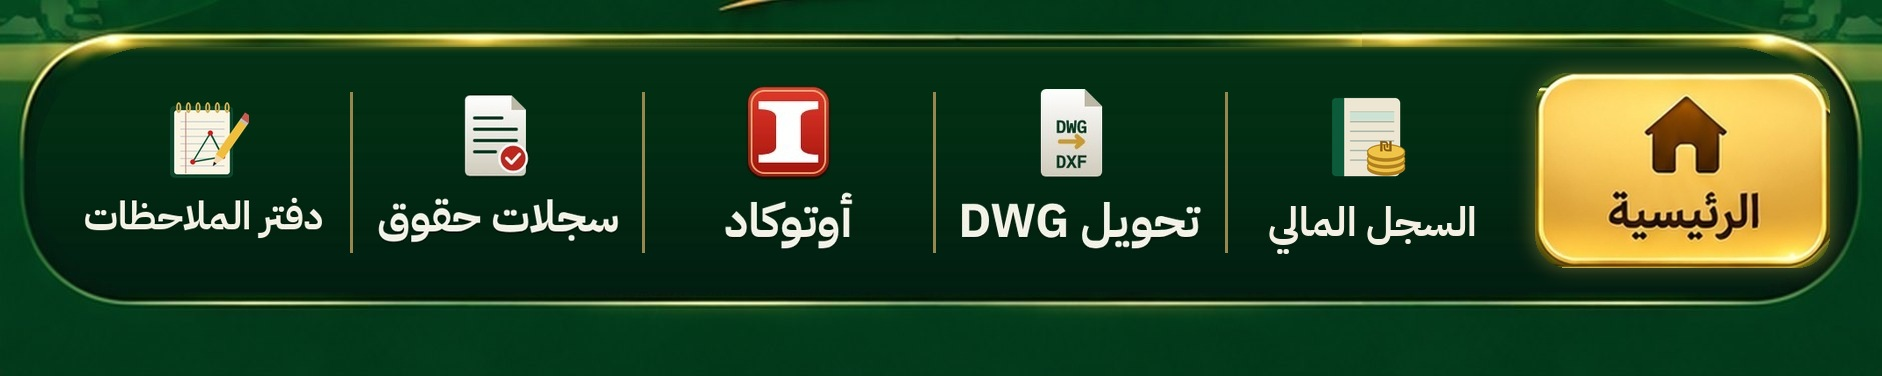
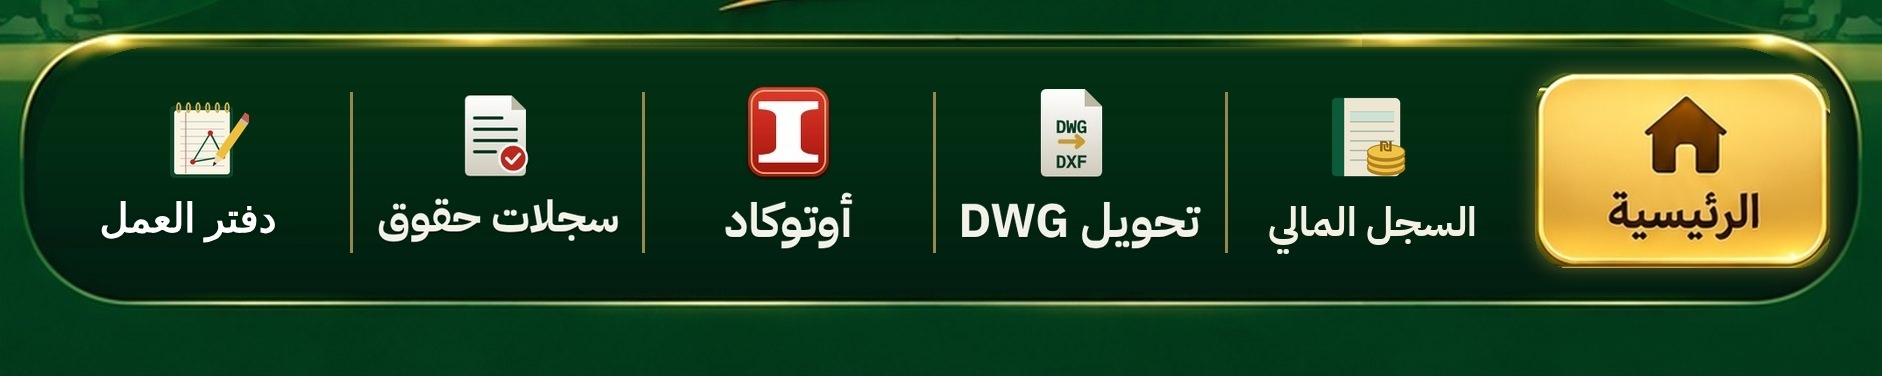
دفتر العمل: full names, amount linked to ledger, 4-stage status with auto payment on delivery
Claude-Session: https://claude.ai/code/session_01AkLSPwRHM58vdM6rzVeHiX

Changed region(s): [[0.0308, 0.5266, 0.1849, 0.6436]]

diff --git a/app/src/main/assets/notes/index.html b/app/src/main/assets/notes/index.html
@@ -3,7 +3,7 @@
 <head>
 <meta charset="utf-8">
 <meta name="viewport" content="width=device-width,initial-scale=1,viewport-fit=cover">
-<title>دفتر الملاحظات</title>
+<title>دفتر العمل</title>
 <link rel="stylesheet" href="../ifraz/fonts.css">
 <link rel="stylesheet" href="../theme.css">
 <style>
@@ -37,10 +37,22 @@ button{font-family:inherit;cursor:pointer}
 .r:last-child{border-bottom:0}
 .r .ck{flex:none;width:32px;height:32px;border-radius:50%;border:2px solid #b9c4bb;background:#fff;font-size:16px;color:#fff;display:grid;place-items:center}
 .r.done .ck{background:#2f8a4f;border-color:#2f8a4f}
-.r .nm{flex:1.45;min-width:0;font:700 15.5px "IBM Plex Sans Arabic";white-space:nowrap;overflow:hidden;text-overflow:ellipsis}
-.r .wk{flex:1.05;min-width:0;font-size:14px;color:#4a5a50;white-space:nowrap;overflow:hidden;text-overflow:ellipsis}
-.r.done .nm,.r.done .wk{text-decoration:line-through;color:#9aa49c}
-.r .fee{flex:none;width:70px;font:700 14.5px "IBM Plex Sans Arabic";padding:6px;border:1.5px solid var(--am-line);border-radius:10px;background:#fff;text-align:center;direction:ltr}
+.r{flex-direction:column;align-items:stretch!important}
+.r .top{display:flex;align-items:flex-start;gap:6px}
+.r .who{flex:1;min-width:0}
+.r .nm{display:block;font:700 16px/1.45 "IBM Plex Sans Arabic";white-space:normal;word-break:break-word}
+.r .wk{display:block;font-size:14px;color:#4a5a50;white-space:normal}
+.r .lgm{display:block;font-size:12.5px;font-weight:700;margin-top:2px}.lgm.bad{color:#b4232c}.lgm.ok{color:#1e6b4a}
+.st{display:grid;grid-template-columns:repeat(4,minmax(0,1fr));gap:5px;margin-top:8px}
+.st button{border:1.5px solid var(--am-line);background:#fffdf6;border-radius:10px;padding:6px 2px;font:700 12.5px/1.3 "IBM Plex Sans Arabic";color:#6b7368}
+.st button.on[data-s=new]{background:#56677a;border-color:#56677a;color:#fff}
+.st button.on[data-s=doing]{background:#c98a12;border-color:#c98a12;color:#fff}
+.st button.on[data-s=done]{background:#1e6b4a;border-color:#1e6b4a;color:#fff}
+.st button.on[data-s=paid]{background:#0d6f78;border-color:#0d6f78;color:#fff}
+.r .fwrap{flex:none;display:flex;flex-direction:column;align-items:center;gap:2px}
+.r .fwrap small{font-size:10.5px;color:var(--am-muted)}
+.r.s-paid .nm,.r.s-paid .wk{color:#7d8a80}
+.r .fee{flex:none;width:86px;font:700 14.5px "IBM Plex Sans Arabic";padding:6px;border:1.5px solid var(--am-line);border-radius:10px;background:#fff;text-align:center;direction:ltr}
 .r .ib{flex:none;width:36px;height:36px;border:0;border-radius:10px;background:#f3ead2;font-size:16px;display:grid;place-items:center}
 .r .day{display:block;font-size:11.5px;color:#8a5a00;font-weight:600}
 .r .day.late{color:#b4232c}
@@ -116,13 +128,14 @@ button{font-family:inherit;cursor:pointer}
 </style>
 </head>
 <body>
-<div class="am-bar"><span class="am-title"><img src="../img/t-notes.png" alt=""><b>دفتر الملاحظات</b></span><a class="am-home" href="../home.html"><svg viewBox="0 0 24 24" fill="currentColor" aria-hidden="true"><path d="M12 3 2.5 11h2.7v9.5h5.3v-6h3v6h5.3V11h2.7z"/></svg>الرئيسية</a></div>
+<div class="am-bar"><span class="am-title"><img src="../img/t-notes.png" alt=""><b>دفتر العمل</b></span><a class="am-home" href="../home.html"><svg viewBox="0 0 24 24" fill="currentColor" aria-hidden="true"><path d="M12 3 2.5 11h2.7v9.5h5.3v-6h3v6h5.3V11h2.7z"/></svg>الرئيسية</a></div>
 <div class="am-spacer" aria-hidden="true"></div>
 <main>
   <section id="vWork">
     <div class="quick">
       <div class="qrow"><input id="qName" placeholder="اسم صاحب العمل"><button class="mic" type="button" data-mic="qName">🎤</button></div>
-      <div class="qrow"><input id="qWork" placeholder="نوع العمل"><button class="mic" type="button" data-mic="qWork">🎤</button><button class="plus" type="button" id="qAdd">＋ أضف</button></div>
+      <div class="qrow"><input id="qWork" placeholder="نوع العمل (ترخيص، إخراج قيد، تفصيلي…)"><button class="mic" type="button" data-mic="qWork">🎤</button></div>
+      <div class="qrow"><input id="qFee" inputmode="decimal" dir="ltr" placeholder="المبلغ المطلوب ₪" style="text-align:left"><button class="mic" type="button" data-mic="qFee">🎤</button><button class="plus" type="button" id="qAdd">＋ أضف</button></div>
     </div>
     <div class="sub" id="wSub"><button type="button" data-w="cur" class="on">الأعمال الحالية</button><button type="button" data-w="arch">🗄 الأرشيف</button></div>
     <div class="rows" id="wRows"></div>
@@ -158,7 +171,8 @@ const esc = s => String(s == null ? "" : s).replace(/[&<>"]/g, c => ({ "&": "&am
 const toast = t => { const e = $("#toast"); e.textContent = t; e.classList.add("on"); clearTimeout(toast.t); toast.t = setTimeout(() => e.classList.remove("on"), 1800); };
 const KEY = "jobs-v1";
 let jobs = []; try { jobs = JSON.parse(localStorage.getItem(KEY) || "[]") || []; } catch (e) {}
-jobs.forEach(j => { if (j.done == null) j.done = j.s === "done"; });   // من النسخة السابقة
+jobs.forEach(j => { if (j.done == null) j.done = j.s === "done"; if (!["new", "doing", "done", "paid"].includes(j.s)) j.s = j.done ? "done" : "new"; });   // من النسخة السابقة
+const STS = [["new", "جديد"], ["doing", "قيد العمل"], ["done", "انتهى العمل"], ["paid", "سُلّم واستُلم المبلغ"]], SORD = { doing: 0, new: 1, done: 2, paid: 3 };
 const save = () => { try { localStorage.setItem(KEY, JSON.stringify(jobs)); } catch (e) {} };
 const pad = n => String(n).padStart(2, "0");
 const ymd = d => d.getFullYear() + "-" + pad(d.getMonth() + 1) + "-" + pad(d.getDate());
@@ -183,31 +197,67 @@ function render() { renderWork(); const n = jobs.filter(j => j.arch && !j.finOnl
 function renderWork() {
   const arch = wSub === "arch";
   let list = jobs.filter(j => !j.finOnly && !!j.arch === arch);
-  list.sort((a, b) => (a.done ? 1 : 0) - (b.done ? 1 : 0) || ((a.date || "9999") + (a.time || "")).localeCompare((b.date || "9999") + (b.time || "")) || a.t - b.t);
-  if (!list.length) { $("#wRows").innerHTML = `<div class="empty">${arch ? "الأرشيف فارغ." : "لا أعمال بعد. اكتب الاسم ونوع العمل فوق (أو بصوتك) واضغط «أضف»."}</div>`; return; }
+  list.sort((a, b) => SORD[a.s] - SORD[b.s] || ((a.date || "9999") + (a.time || "")).localeCompare((b.date || "9999") + (b.time || "")) || a.t - b.t);
+  if (!list.length) { $("#wRows").innerHTML = `<div class="empty">${arch ? "الأرشيف فارغ." : "لا أعمال بعد. اكتب الاسم ونوع العمل والمبلغ فوق (أو بصوتك) واضغط «أضف»."}</div>`; return; }
   const today = ymd(new Date());
-  $("#wRows").innerHTML = `<div class="hrow"><span style="width:32px"></span><span style="flex:1.45">الاسم</span><span style="flex:1.05">نوع العمل</span><span style="width:70px;text-align:center">المطلوب</span><span style="width:78px"></span></div>` + list.map(j => {
-    const d = j.date ? `<span class="day${j.date < today && !j.done ? " late" : ""}">🗓 ${esc(dayName(j.date))}${j.time ? " " + esc(j.time) : ""}</span>` : "";
-    return `<div class="r${j.done ? " done" : ""}" data-id="${j.id}">
-      <button class="ck" type="button" data-done title="${j.done ? "إلغاء الشطب" : "انتهى العمل"}">${j.done ? "✓" : ""}</button>
-      <span class="nm">${esc(j.name || "—")}${d}</span><span class="wk">${esc(j.work || "")}</span>
-      <input class="fee" inputmode="decimal" value="${esc(j.fee || "")}" placeholder="${sym(j)}" data-fee>
-      <button class="ib" type="button" data-note title="ملاحظات">📝</button>
-      <button class="ib" type="button" data-arch title="${arch ? "إرجاع من الأرشيف" : "أرشفة"}">${arch ? "↩" : "🗄"}</button></div>`;
+  $("#wRows").innerHTML = list.map(j => {
+    const d = j.date ? `<span class="day${j.date < today && SORD[j.s] < 2 ? " late" : ""}">🗓 ${esc(dayName(j.date))}${j.time ? " " + esc(j.time) : ""}</span>` : "";
+    const r = lgOfJob(j); let lm = "";
+    if (r && N(r.due)) { const rem = N(r.due) - N(r.paid); lm = rem > 0 ? `<span class="lgm bad">💰 واصل ${M(N(r.paid))} · متبقي ${M(rem)} ₪</span>` : `<span class="lgm ok">💰 مدفوع كاملاً ✓</span>`; }
+    return `<div class="r s-${j.s}" data-id="${j.id}">
+      <div class="top"><div class="who"><span class="nm">${esc(j.name || "—")}</span>${j.work ? `<span class="wk">${esc(j.work)}</span>` : ""}${d}${lm}</div>
+      <div class="fwrap"><input class="fee" inputmode="decimal" value="${esc(j.fee || "")}" placeholder="المبلغ ₪" data-fee><small>المطلوب</small></div>
+      <button class="ib" type="button" data-note title="التفاصيل والملاحظات">📝</button>
+      <button class="ib" type="button" data-arch title="${arch ? "إرجاع من الأرشيف" : "أرشفة"}">${arch ? "↩" : "🗄"}</button></div>
+      <div class="st">${STS.map(([k, t]) => `<button type="button" data-s="${k}" class="${j.s === k ? "on" : ""}">${t}</button>`).join("")}</div></div>`;
   }).join("");
 }
 $("#qAdd").addEventListener("click", () => {
   const name = $("#qName").value.trim(), work = $("#qWork").value.trim(); if (!name && !work) { toast("اكتب الاسم أو نوع العمل"); return; }
-  jobs.push({ id: newId(), t: Date.now(), name, work, done: false, cur: "ils" }); save();
-  $("#qName").value = ""; $("#qWork").value = ""; if (wSub !== "cur") $('#wSub [data-w="cur"]').click(); else render(); toast("أُضيف");
+  const fee = $("#qFee").value.trim(), j = { id: newId(), t: Date.now(), name, work, fee, s: "new", done: false, cur: "ils" }; jobs.push(j); save();
+  if (N(fee)) syncLedger(j).then(ok => { render(); if (ok) toast("أُضيف، والمبلغ رحل للسجل المالي"); });
+  $("#qName").value = ""; $("#qWork").value = ""; $("#qFee").value = ""; if (wSub !== "cur") $('#wSub [data-w="cur"]').click(); else render(); toast("أُضيف");
 });
 $("#wRows").addEventListener("click", e => {
   const r = e.target.closest("[data-id]"); if (!r) return; const j = jobs.find(x => x.id === r.dataset.id);
-  if (e.target.closest("[data-done]")) { j.done = !j.done; j.doneAt = j.done ? Date.now() : null; save(); render(); toast(j.done ? "✓ انتهى العمل" : "أُعيد للأعمال"); }
+  const sb = e.target.closest("[data-s]"); if (sb) { setStatus(j, sb.dataset.s); return; }
   else if (e.target.closest("[data-arch]")) { j.arch = !j.arch; save(); render(); toast(j.arch ? "🗄 نُقل إلى الأرشيف" : "↩ أُرجع من الأرشيف"); }
   else if (e.target.closest("[data-note]")) openNote(j);
 });
-$("#wRows").addEventListener("change", e => { const f = e.target.closest("[data-fee]"); if (!f) return; const j = jobs.find(x => x.id === f.closest("[data-id]").dataset.id); j.fee = f.value.trim(); save(); });
+$("#wRows").addEventListener("change", e => { const f = e.target.closest("[data-fee]"); if (!f) return; const j = jobs.find(x => x.id === f.closest("[data-id]").dataset.id); j.fee = f.value.trim(); save();
+  syncLedger(j).then(ok => { render(); if (ok) toast("💰 المبلغ رحل للسجل المالي"); }); });
+
+/* ---------- الربط مع السجل المالي (سجل إسلام) ---------- */
+const LG = { db: null, recs: [] };
+const nn = x => String(x || "").replace(/\s+/g, " ").trim();
+function lgLoad() { return new Promise(res => { try { const r = indexedDB.open("segl-aslam", 1);
+  r.onupgradeneeded = () => { const d = r.result; d.createObjectStore("customers", { keyPath: "id" }); d.createObjectStore("notes", { keyPath: "id" }); };
+  r.onsuccess = () => { LG.db = r.result; const q = LG.db.transaction("customers", "readonly").objectStore("customers").getAll(); q.onsuccess = () => { LG.recs = q.result || []; res(); }; q.onerror = () => res(); };
+  r.onerror = () => res(); } catch (e) { res(); } }); }
+function lgPut(rec) { return new Promise(res => { if (!LG.db) return res(false); try { const tx = LG.db.transaction("customers", "readwrite"); tx.objectStore("customers").put(rec);
+  tx.oncomplete = () => { const i = LG.recs.findIndex(x => x.id === rec.id); if (i >= 0) LG.recs[i] = rec; else LG.recs.push(rec); res(true); }; tx.onerror = () => res(false); } catch (e) { res(false); } }); }
+const lgOfJob = j => LG.recs.find(r => r.jobId === j.id) || (j.lgId && LG.recs.find(r => r.id === j.lgId));
+const catOf = w => /ترخيص/.test(w) ? "license" : /تفصيل/.test(w) ? "detailed" : /قيد/.test(w) ? "extract" : /مجدد/.test(w) ? "renew" : /اعتراض|مخطط عام|مخططات عامة/.test(w) ? "objection" : "private";
+const paysOf = r => Array.isArray(r.pays) ? r.pays.slice() : (N(r.paid) > 0 ? [{ a: String(N(r.paid)), d: r.date || "" }] : []);
+/* المبلغ المطلوب هنا = المبلغ المطلوب في السجل المالي (ينشئ المعاملة أو يحدّثها، ولا يمس الدفعات والتوزيع) */
+async function syncLedger(j) {
+  if (!LG.db) await lgLoad(); if (!LG.db) return false;
+  let r = lgOfJob(j); if (!r && !N(j.fee)) return false;
+  if (!r) r = LG.recs.find(x => !x.archived && !x.jobId && nn(x.name) && nn(x.name) === nn(j.name) && (!N(x.due) || N(x.due) === N(j.fee)));
+  const rec = r ? { ...r } : { id: "job-" + j.id, category: catOf(j.work || ""), created: Date.now(), currency: "شيكل", date: ymd(new Date(j.t || Date.now())), pays: [], paid: "0", notes: "" };
+  rec.jobId = j.id; rec.name = j.name || rec.name || "بدون اسم"; if (j.phone) rec.phone = j.phone; rec.due = String(N(j.fee)); if (!rec.notes && j.work) rec.notes = j.work;
+  j.lgId = rec.id; save(); return lgPut(rec);
+}
+/* الحالة: «سُلّم واستُلم المبلغ» يسجّل دفعة بالمتبقي في السجل المالي (وتُلغى لو رجعت عن الحالة) */
+async function setStatus(j, st) {
+  const was = j.s; if (was === st) return; j.s = st; j.done = st === "done" || st === "paid"; j.doneAt = j.done ? (j.doneAt || Date.now()) : null; save(); render();
+  if (!LG.db) await lgLoad(); const r = lgOfJob(j);
+  if (st === "paid" && r) { const rem = N(r.due) - N(r.paid); if (rem > 0) { const p = { a: String(rem), d: ymd(new Date()), auto: j.id }, pays = paysOf(r).concat(p);
+      await lgPut({ ...r, pays, paid: String(pays.reduce((t, x) => t + N(x.a), 0)) }); j.autoPay = 1; save(); render(); toast(`✓ سُلّم العمل، وسُجّل استلام ${M(rem)} ₪ بالسجل المالي`); return; } }
+  if (was === "paid" && j.autoPay && r) { const pays = paysOf(r).filter(x => x.auto !== j.id); await lgPut({ ...r, pays, paid: String(pays.reduce((t, x) => t + N(x.a), 0)) }); j.autoPay = 0; save(); render(); toast("أُلغيت دفعة الاستلام من السجل المالي"); return; }
+  toast(STS.find(x => x[0] === st)[1]);
+}
+lgLoad().then(() => render());
 
 /* ---------- صفحة الملاحظات ---------- */
 let nJob = null;
@@ -222,7 +272,7 @@ $("#nPhone").addEventListener("input", contact);
 $("#nDays").addEventListener("click", e => { const b = e.target.closest("[data-d]"); if (!b) return; setDay(b.dataset.d); $("#nDate").value = b.dataset.d === "" ? "" : ymd(new Date(Date.now() + 864e5 * +b.dataset.d)); if (b.dataset.d === "") $("#nTime").value = ""; });
 $("#nSave").addEventListener("click", () => {
   Object.assign(nJob, { name: $("#nName").value.trim(), work: $("#nWork").value.trim(), phone: $("#nPhone").value.trim(), date: $("#nDate").value, time: $("#nTime").value, note: $("#nNote").value.trim() });
-  save(); $("#noteSheet").classList.add("hidden"); render(); toast("حُفظ");
+  save(); $("#noteSheet").classList.add("hidden"); render(); toast("حُفظ"); if (lgOfJob(nJob)) syncLedger(nJob).then(() => render());
 });
 let delAsk = 0;
 $("#nDel").addEventListener("click", () => { if (Date.now() - delAsk > 3000) { delAsk = Date.now(); toast("اضغط مرة ثانية للحذف النهائي"); return; } jobs = jobs.filter(x => x !== nJob); save(); $("#noteSheet").classList.add("hidden"); render(); toast("حُذف"); });
@@ -244,7 +294,7 @@ function listen(cb) {
   const r = new R(); r.lang = "ar-JO"; r.onresult = e => cb(e.results[0][0].transcript); r.onerror = () => cb(null, "error"); r.start();
 }
 const AR_NUM = { "صفر": "0", "واحد": "1", "اثنين": "2", "اثنان": "2", "ثلاثة": "3", "ثلاث": "3", "اربعة": "4", "أربعة": "4", "خمسة": "5", "خمس": "5", "ستة": "6", "ست": "6", "سبعة": "7", "سبع": "7", "ثمانية": "8", "ثمان": "8", "تسعة": "9", "تسع": "9" };
-const NUMF = new Set(["nPhone"]);
+const NUMF = new Set(["nPhone", "qFee"]);
 function micTo(b, f, numeric) {
   b.classList.add("on");
   listen((text, err) => {

diff --git a/app/src/main/assets/home.html b/app/src/main/assets/home.html
@@ -130,7 +130,7 @@ body.open .sheet-bg{opacity:1;pointer-events:auto}
     <a class="hit" href="dwg/index.html" aria-label="تحويل DWG" style="left:49.68%;top:3.19%;width:15.49%;height:75.53%"></a>
     <a class="hit" href="cad/index.html" aria-label="أوتوكاد" style="left:34.18%;top:3.19%;width:15.49%;height:75.53%"></a>
     <a class="hit" href="https://pla.pna.ps/ar/Works" aria-label="سجلات حقوق" style="left:18.69%;top:3.19%;width:15.49%;height:75.53%"></a>
-    <a class="hit" href="notes/index.html" aria-label="دفتر الملاحظات" style="left:3.2%;top:3.19%;width:15.49%;height:75.53%"></a>
+    <a class="hit" href="notes/index.html" aria-label="دفتر العمل" style="left:3.2%;top:3.19%;width:15.49%;height:75.53%"></a>
   </div>
 </nav>
 
